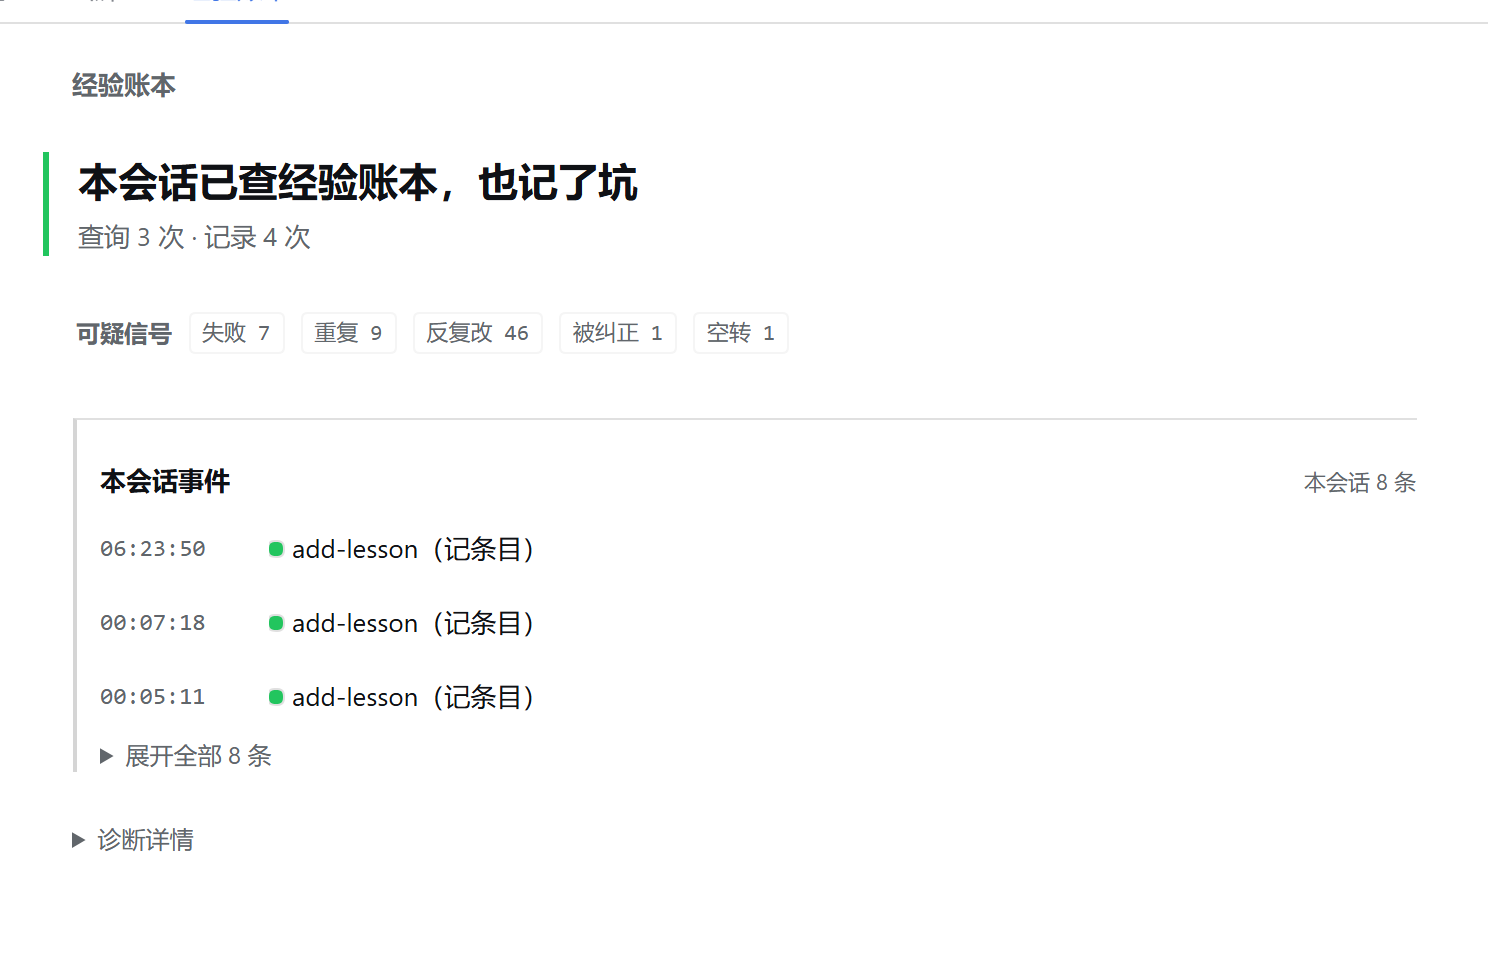
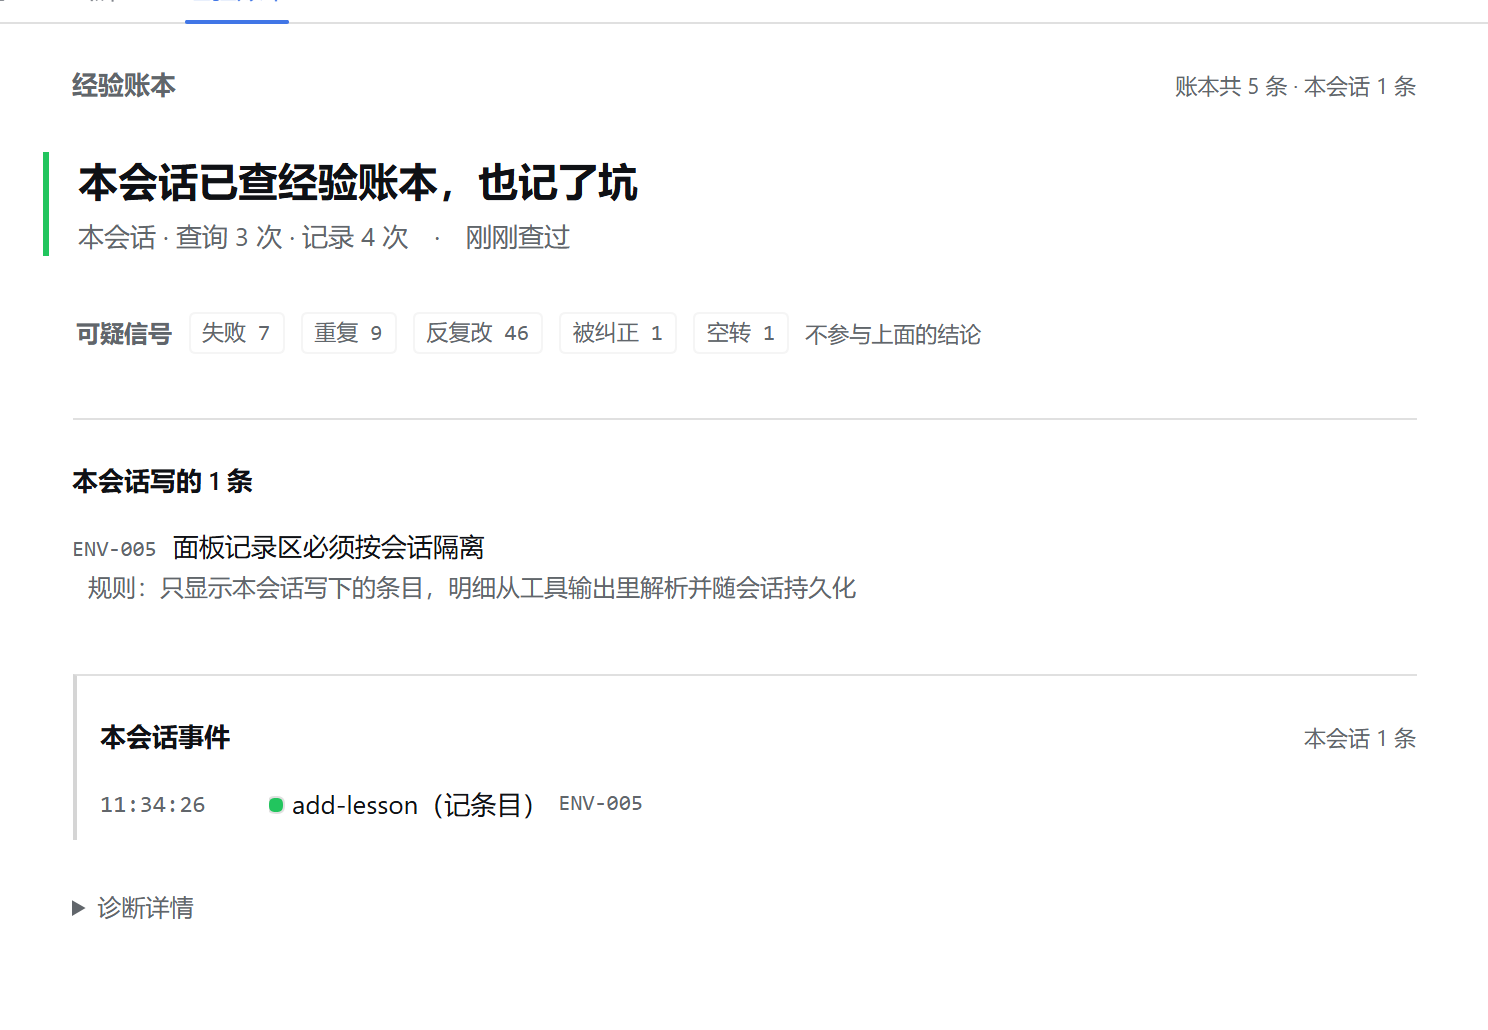
ui: one aggregate number, and the rule backfilled into the record line
Choice A from the product review: the panel gains a single reference figure in
the header - "账本共 5 条 · 本会话 1 条" - with no other session's content
anywhere. It answers "is the ledger actually being used" without reopening the
cross-session list.

Also: records merged from the evidence file only carried id + title (the rule
was added later), so after a restart the one visible record lost its "规则"
line. The merge now backfills title and rule by id from the ledger items.

Screenshot refreshed; 26 UI checks pass.

diff --git a/lib/client.js b/lib/client.js
@@ -25,7 +25,7 @@ window.__ModuleLoader__.load({
 
     const React = require('react');
 
-    const BUILD = 'c-2026-10-29 11:55 · honest-numbers';
+    const BUILD = 'c-2026-10-29 12:10 · ledger-agg';
     const NS = 'settings.ledgerWatch';
     const inject = ['slots', 'locale', 'connection'];
     const REMOTE_METHOD_PARAMS = { state: ['sessionId'], evidence: [], report: ['clientBuild', 'note'] };
@@ -87,7 +87,7 @@ window.__ModuleLoader__.load({
       queries: '查询', records: '记录', observed: '宿主工具调用（全局）',
       myRecords: '本会话写的 {n} 条',
       recordedUnknown: '记的 {n} 次发生在本版开始采集之前；账本里内容都在，面板只是缺条目 id',
-      lastQueryAgo: '最近一次查询 {d}前', justNow: '刚刚查过', eventExtra: '含 {n} 条读取/失败（不计入查询记录）', signalsNote: '不参与上面的结论', eventsScope: '本会话 {n} 条', ruleLabel: '规则：', eventsThis: '本会话事件', showAll: '展开全部 {n} 条', othersSummary: '其它会话 {n} 个', onlyShown: '仅显示 {n} / 共 {m}',
+      lastQueryAgo: '最近一次查询 {d}前', justNow: '刚刚查过', ledgerAgg: '账本共 {total} 条 · 本会话 {mine} 条', ledgerAggOnly: '账本共 {total} 条', eventExtra: '含 {n} 条读取/失败（不计入查询记录）', signalsNote: '不参与上面的结论', eventsScope: '本会话 {n} 条', ruleLabel: '规则：', eventsThis: '本会话事件', showAll: '展开全部 {n} 条', othersSummary: '其它会话 {n} 个', onlyShown: '仅显示 {n} / 共 {m}',
       evidence: '证据文件', build: 'build', client: '客户端回报', none: '无', times: '次',
       v_ok: '查了也记了', v_queryonly: '查了没记', v_recordnoquery: '记了没先查', v_missingquery: '没查账本', v_idle: '还没开始',
       h_ok: '本会话既查了账本，也记了坑', h_queryonly: '查过账本，但还没有记录新踩的坑',
@@ -120,7 +120,7 @@ window.__ModuleLoader__.load({
       queries: 'Queries', records: 'Records', observed: 'Host tool calls (global)',
       myRecords: 'Recorded here: {n}',
       recordedUnknown: 'Those {n} records predate entry-id capture; the ledger has them, the panel just lacks the ids',
-      lastQueryAgo: 'last lookup {d} ago', justNow: 'looked up just now', eventExtra: '{n} reads/failures were not counted as lookups', signalsNote: 'does not change the verdict above', eventsScope: 'this session: {n}', ruleLabel: 'Rule: ', eventsThis: 'Events in this session', showAll: 'show all {n}', othersSummary: 'Other sessions: {n}', onlyShown: 'showing {n} of {m}',
+      lastQueryAgo: 'last lookup {d} ago', justNow: 'looked up just now', ledgerAgg: 'ledger: {total} entries · {mine} from here', ledgerAggOnly: 'ledger: {total} entries', eventExtra: '{n} reads/failures were not counted as lookups', signalsNote: 'does not change the verdict above', eventsScope: 'this session: {n}', ruleLabel: 'Rule: ', eventsThis: 'Events in this session', showAll: 'show all {n}', othersSummary: 'Other sessions: {n}', onlyShown: 'showing {n} of {m}',
       evidence: 'Evidence file', build: 'build', client: 'Client report', none: 'none', times: '',
       v_ok: 'checked + logged', v_queryonly: 'checked only', v_recordnoquery: 'logged, no check', v_missingquery: 'never checked', v_idle: 'not started',
       h_ok: 'Both looked up and recorded', h_queryonly: 'Looked up, nothing recorded yet',
@@ -472,7 +472,15 @@ window.__ModuleLoader__.load({
             React.createElement('span', { style: S.alertAction }, t('retry')),
             React.createElement('button', { style: { ...S.btn, alignSelf: 'flex-start' }, className: 'lw-btn', type: 'button', onClick: load }, t('retry')))
         : null;
-      const header = React.createElement('div', { style: S.headRow }, titleRow);
+      const ledgerTotal = data.ledger && typeof data.ledger.entries === 'number' ? data.ledger.entries : null;
+      const mineCount = cur !== null && Array.isArray(cur.recorded) ? cur.recorded.length : 0;
+      const ledgerAgg = ledgerTotal === null || ledgerTotal === 0
+        ? null
+        : React.createElement('span', { style: { marginLeft: 'auto', ...S.dim, fontSize: '11px', fontVariantNumeric: 'tabular-nums' } },
+            mineCount > 0
+              ? t('ledgerAgg').replace('{total}', String(ledgerTotal)).replace('{mine}', String(mineCount))
+              : t('ledgerAggOnly').replace('{total}', String(ledgerTotal)));
+      const header = React.createElement('div', { style: S.headRow }, titleRow, ledgerAgg);
 
       // 状态行卡已删除：结论改由状态脊承担，避免同一结论在一屏里渲染两遍（UI + UX 评审一致）
       // 「轮次」也删掉：它不参与任何判定，却占一张卡（2026-10-28 评审）

diff --git a/lib/index.js b/lib/index.js
@@ -49,7 +49,7 @@ const LEDGER_SCAN_INTERVAL_MS = 30000;
 const RECALL_SESSION_BUDGET = 6000;
 
 /** 构建标记：改 lib/ 就更新它，用来判断进程里跑的是哪一版（见 PRC-013）。 */
-const BUILD = '2026-10-29 12:00 +08 · honest-numbers';
+const BUILD = '2026-10-29 12:12 +08 · ledger-agg';
 
 /** 账本脚本 → 动作。只认「真的在命令位被调用」，不做全文包含匹配。 */
 const SCRIPT_RULES = [
@@ -804,10 +804,13 @@ class LedgerWatchGateway extends TypertRemoteService {
         recorded: (() => {
           const seen = new Set();
           const out = [];
+          // 证据文件里的旧记录只有 id + 标题（规则是后加的），这里统一按 id 从账本补一次，
+          // 否则重启后那一条会只剩标题，用户仍然看不到「下次该怎么做」。
           for (const r of [...(s.recorded || []), ...(old.recorded || [])]) {
             if (!r || seen.has(r.id)) continue;
             seen.add(r.id);
-            out.push(r);
+            const item = (this.ledgerItems || []).find((it) => it.id === r.id);
+            out.push({ id: r.id, title: r.title || (item ? item.title : ''), rule: r.rule || (item ? item.rule : ''), at: r.at });
           }
           return out.slice(0, MAX_RECORDED);
         })(),
